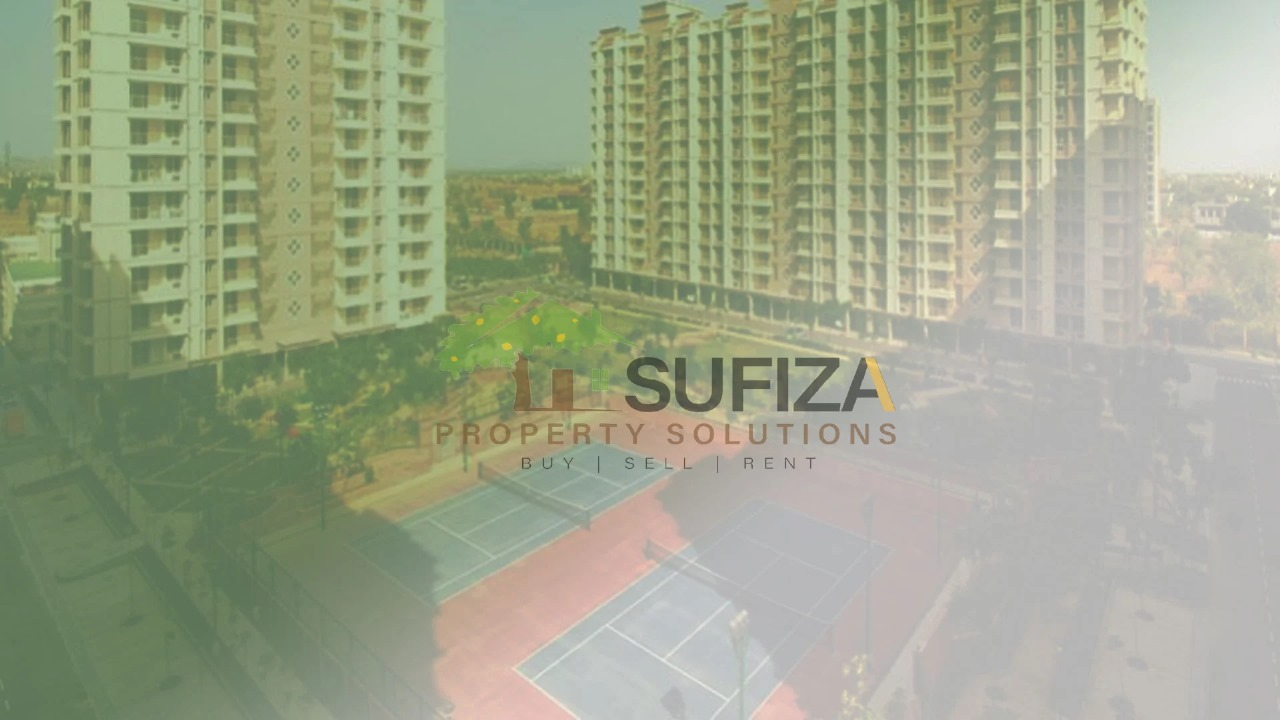
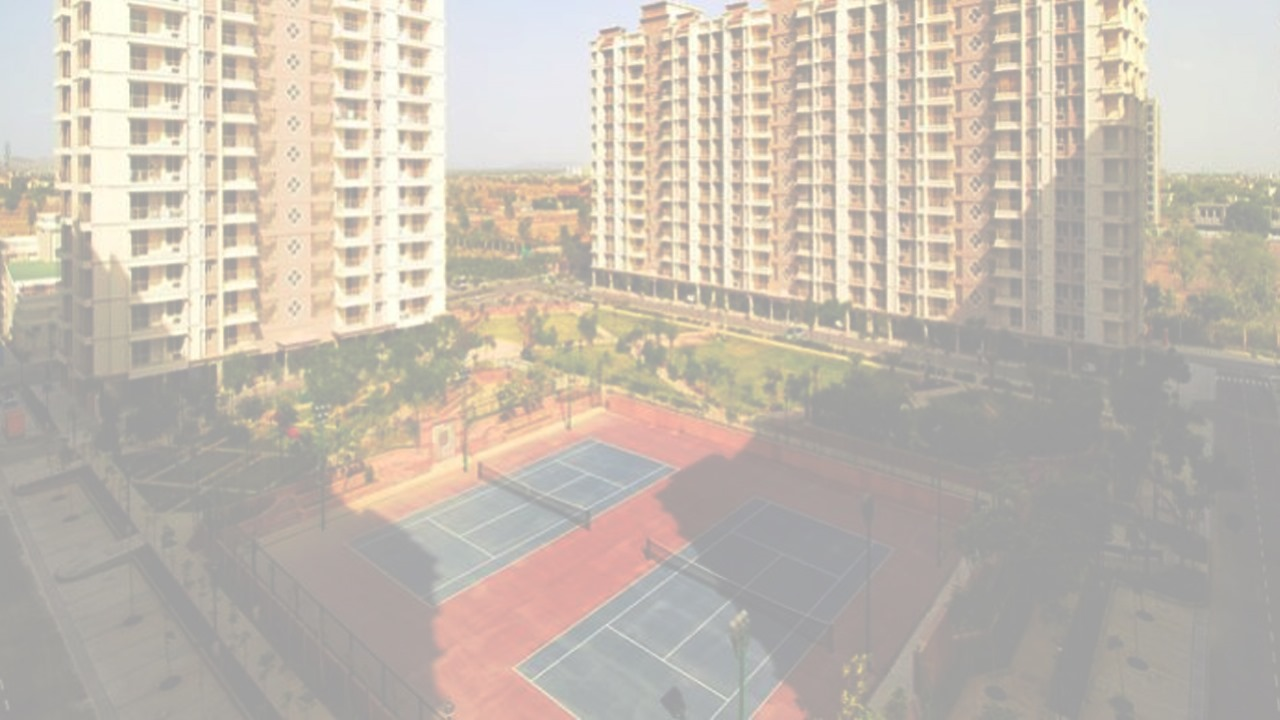
reworked service page color

diff --git a/src/components/ServiceCard/ServiceCard.jsx b/src/components/ServiceCard/ServiceCard.jsx
@@ -3,14 +3,14 @@ import { Link } from "react-router-dom";
 const ServiceCard = ({ service }) => {
    return (
       <li>
-         <div className="bg-white p-10 space-y-4 flex flex-col min-h-min h-full shadow rounded-xl">
+         <div className="bg-white p-10 space-y-4 flex flex-col min-h-min h-full shadow-lg rounded-xl">
             <h2 className="text-3xl tracking-[2px] uppercase text-ourCoffee flex-1">
                {service.title}
             </h2>
             <p className="text-neutral-900">{service.description}</p>
 
             <div className="flex-grow flex items-end justify-center py-2">
-               <Link className="py-1.5 px-4 relative group overflow-hidden font-medium  inline-block custom-next border-ourDeeperGold border hover:border-black bg-ourCoffee text-ourLighterYellow uppercase rounded-md">
+               <Link className="py-2.5 px-4 relative group overflow-hidden font-medium  inline-block custom-next border-ourDeeperGold border hover:border-black bg-ourCoffee text-ourLighterYellow uppercase rounded-md">
                   <span className="absolute top-0 left-0 flex w-full h-0 mb-0 transition-all duration-200 ease-out transform translate-y-0 bg-neutral-900 group-hover:h-full opacity-90"></span>
                   <span className="relative tracking-[2px] text-sm">
                      Learn More

diff --git a/src/Pages/ServicesPage/ServicesPage.css b/src/Pages/ServicesPage/ServicesPage.css
@@ -1,5 +1,5 @@
 .servicePage {
-   background-image: url("../../assets/banner/bg-new.jpeg");
+   /* background-image: url("../../assets/banner/bg-new.jpeg"); */
    background-repeat: no-repeat;
    background-position: center;
    background-size: cover;
